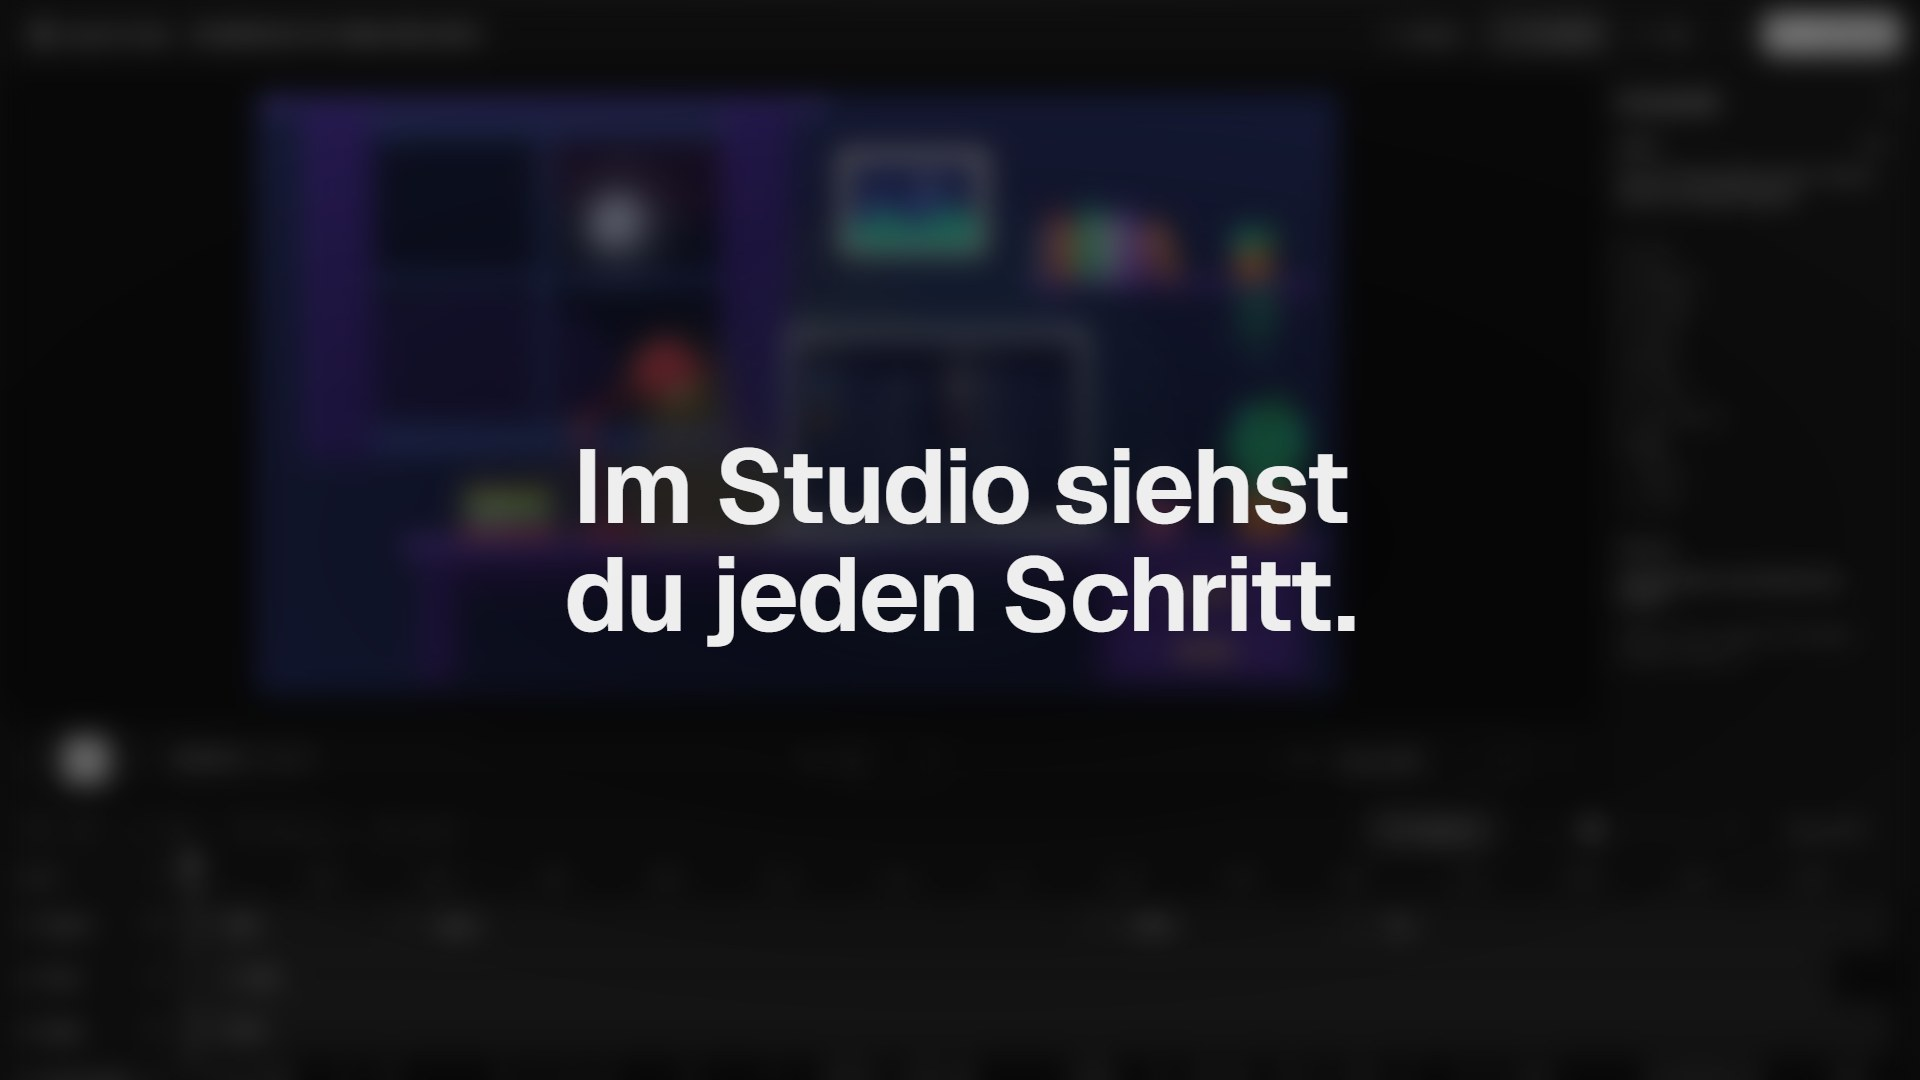
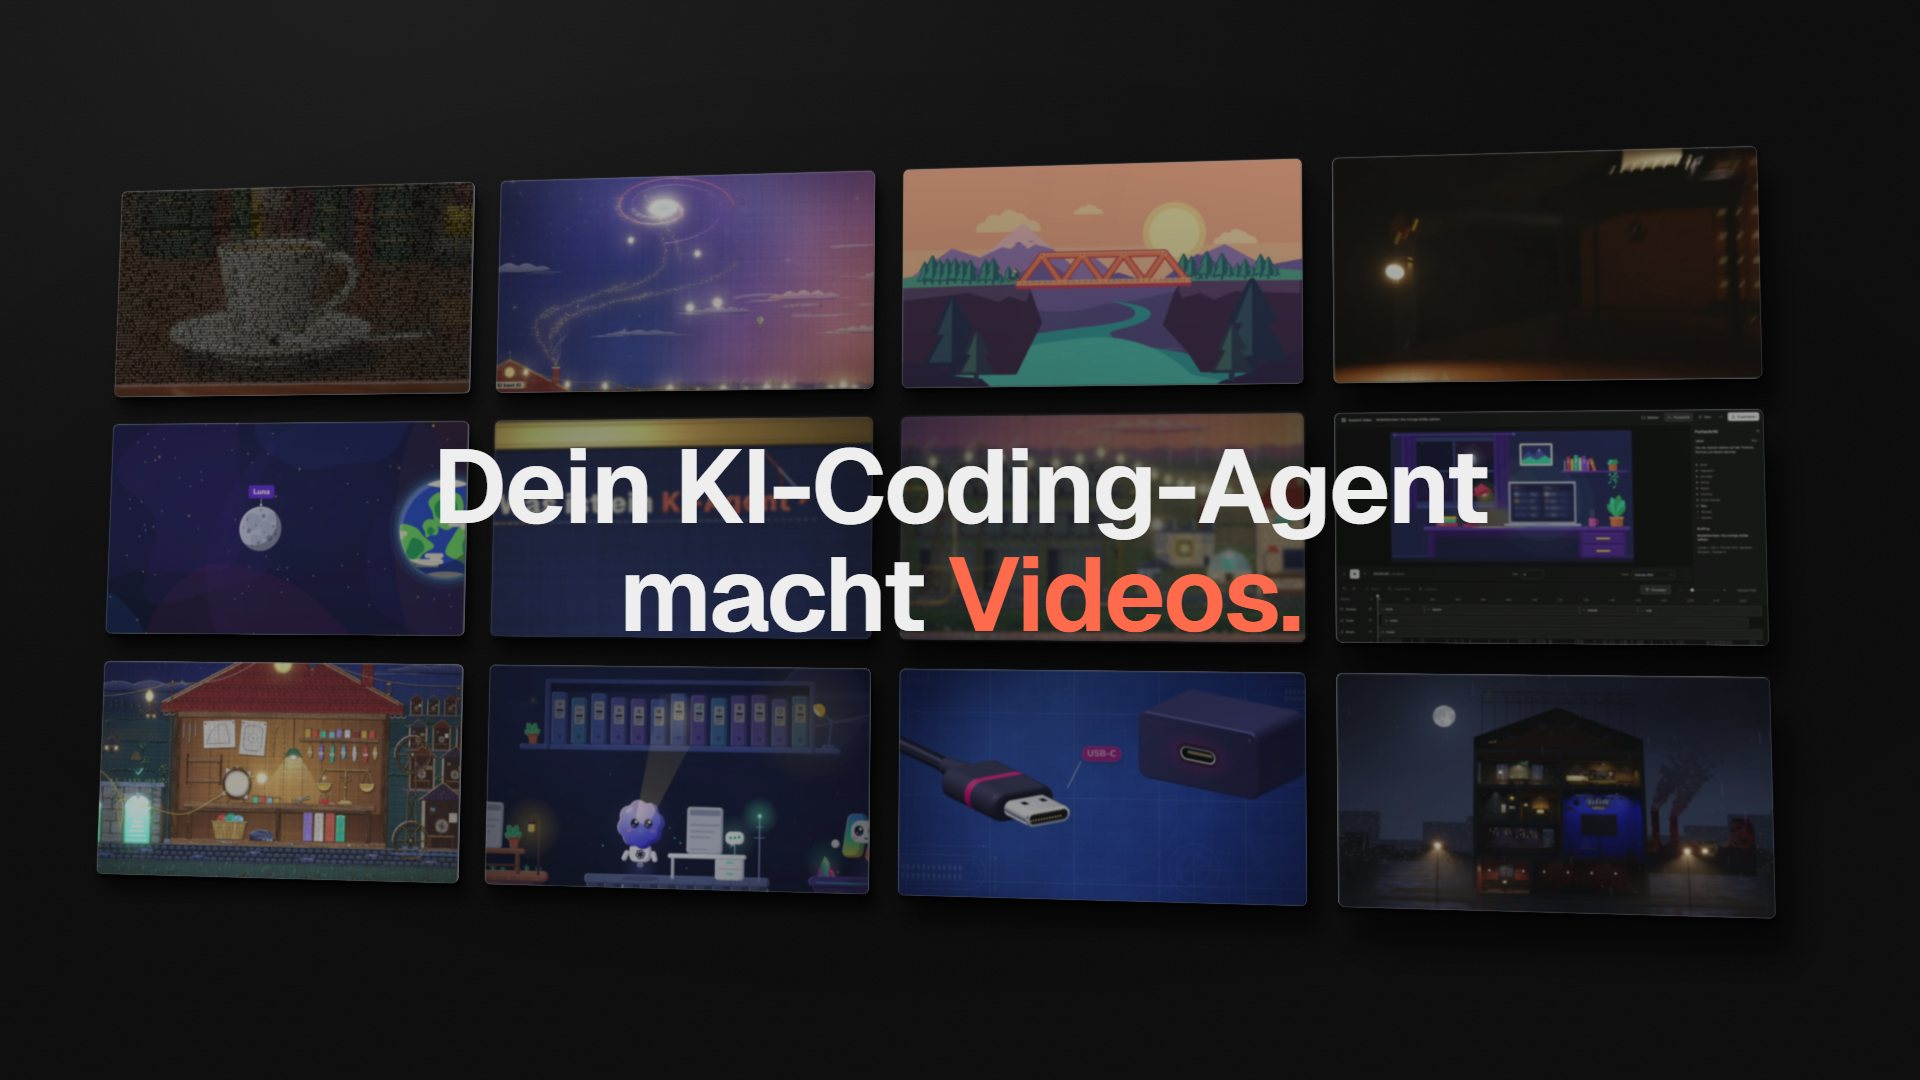
README shows the new launch film; scene guide on 3D cards that turn half grey
The README opens with the launch film made for 0.13.0, its first frame as the
picture, linked to the H.264 copy attached to the release; Studio moves down to
"So funktioniert es". The scene API reference explains why a 3D card can come
out half grey for one frame (an edge slice sorted in front of a blurred face
when its colour changes every frame) and how a scene avoids it.

diff --git a/README.md b/README.md
@@ -22,9 +22,9 @@
 </p>
 
 <p align="center">
-  <img src="docs/images/studio.jpg" alt="Das Studio von Superint Video: links die Vorschau eines fertigen Erklärfilms, rechts der Fortschritt des Coding-Agenten, unten die Timeline mit Szenen, Stimme, Musik und Soundeffekten" width="100%">
+  <a href="https://github.com/marlonka/superint-video/releases/download/v0.13.0/superint-video-launch.mp4"><img src="docs/images/launch-film.jpg" alt="Das erste Bild des Launch-Films: eine Wand aus zwölf Filmen, die mit Superint Video gemacht sind, darüber der Satz „Dein KI-Coding-Agent macht Videos.“" width="100%"></a>
   <br>
-  <sub>Das Studio mit einem fertigen Film. Du siehst, was dein Coding-Agent gerade tut, und änderst selbst, was du willst.</sub>
+  <sub>▶ <a href="https://github.com/marlonka/superint-video/releases/download/v0.13.0/superint-video-launch.mp4">Den Launch-Film ansehen</a> (33 s, mit Ton). Superint Video hat ihn über sich selbst gemacht.</sub>
 </p>
 
 ## So funktioniert es
@@ -36,6 +36,12 @@ Superint Video ist kein Schnittprogramm, in dem du selbst Szenen baust. Es ist d
 3. **Dein Agent baut den Film** mit den Werkzeugen von Superint Video: Er recherchiert, schreibt, zeichnet, vertont, prüft und rendert.
 
 Lass Superint Video offen, während er arbeitet. Dann wechselt es zum neuen Film, und du siehst jeden Schritt. Ist die App zu, öffnet dein Agent das Studio selbst. Zuschauen musst du aber nicht: Er arbeitet auch im Hintergrund weiter, bis das MP4 fertig ist.
+
+<p align="center">
+  <img src="docs/images/studio.jpg" alt="Das Studio von Superint Video: links die Vorschau eines fertigen Erklärfilms, rechts der Fortschritt des Coding-Agenten, unten die Timeline mit Szenen, Stimme, Musik und Soundeffekten" width="100%">
+  <br>
+  <sub>Das Studio mit einem fertigen Film. Du siehst, was dein Coding-Agent gerade tut, und änderst selbst, was du willst.</sub>
+</p>
 
 ## Was du brauchst
 
@@ -79,7 +85,7 @@ Dein Agent fragt nach, wenn ihm etwas fehlt, und legt dann los: Recherche, Skrip
   <img src="docs/images/app-start.jpg" alt="Die Startseite: ein Feld für das Thema des Films, darunter Stil, Länge, Format und Sprache, der fertige Prompt mit dem Knopf „Prompt kopieren“ und vier Filme mit Vorschaubild und Stand" width="100%">
 </p>
 
-Mehr Ideen findest du in den [Starter-Prompts](prompts/README.md). Wie ein Ergebnis aussieht, zeigt der [Launch-Film](https://github.com/marlonka/superint-video/releases/download/v0.3.0/superint-video-launch.mp4) (32 s, mit Ton), den Superint Video über sich selbst gemacht hat.
+Mehr Ideen findest du in den [Starter-Prompts](prompts/README.md). Wie ein Ergebnis aussieht, zeigt der [Launch-Film](https://github.com/marlonka/superint-video/releases/download/v0.13.0/superint-video-launch.mp4) oben auf dieser Seite.
 
 ## Häufige Fragen
 

diff --git a/README.en.md b/README.en.md
@@ -22,9 +22,9 @@
 </p>
 
 <p align="center">
-  <img src="docs/images/studio.jpg" alt="Superint Video's Studio: the preview of a finished explainer on the left, the coding agent's progress on the right, the timeline with scenes, voice, music and sound effects below" width="100%">
+  <a href="https://github.com/marlonka/superint-video/releases/download/v0.13.0/superint-video-launch.mp4"><img src="docs/images/launch-film.jpg" alt="The first frame of the launch film: a wall of twelve films made with Superint Video, under the line “Dein KI-Coding-Agent macht Videos.” (Your AI coding agent makes videos.)" width="100%"></a>
   <br>
-  <sub>Studio with a finished film. You see what your coding agent is doing and change whatever you like yourself.</sub>
+  <sub>▶ <a href="https://github.com/marlonka/superint-video/releases/download/v0.13.0/superint-video-launch.mp4">Watch the launch film</a> (33 s, German, with sound). Superint Video made it about itself.</sub>
 </p>
 
 ## How it works
@@ -36,6 +36,12 @@ Superint Video is not an editor where you build scenes yourself. It is the works
 3. **Your agent builds the film** with Superint Video's tools: it researches, writes, draws, voices, checks and renders.
 
 Keep Superint Video open while it works. It then switches to the new film, and you see every step. If the app is closed, your agent opens Studio itself. You do not have to watch, though: it keeps working in the background until the MP4 is done.
+
+<p align="center">
+  <img src="docs/images/studio.jpg" alt="Superint Video's Studio: the preview of a finished explainer on the left, the coding agent's progress on the right, the timeline with scenes, voice, music and sound effects below" width="100%">
+  <br>
+  <sub>Studio with a finished film. You see what your coding agent is doing and change whatever you like yourself.</sub>
+</p>
 
 ## What you need
 
@@ -79,7 +85,7 @@ Your agent asks if something is missing, then gets going: research, script, pict
   <img src="docs/images/app-start.jpg" alt="The start page: a field for the film's topic, style, length, format and language below it, the finished prompt with the Copy prompt button, and four films with a picture and their status" width="100%">
 </p>
 
-For more ideas, see the [starter prompts](prompts/README.md). To see a result, watch the [launch film](https://github.com/marlonka/superint-video/releases/download/v0.3.0/superint-video-launch.mp4) (32 s, German, with sound) that Superint Video made about itself.
+For more ideas, see the [starter prompts](prompts/README.md). To see a result, watch the [launch film](https://github.com/marlonka/superint-video/releases/download/v0.13.0/superint-video-launch.mp4) at the top of this page.
 
 ## Questions
 

diff --git a/skills/superint-video/references/scene-api.md b/skills/superint-video/references/scene-api.md
@@ -109,7 +109,7 @@ Report a highlight from the moment it arrives until it leaves, not during its fl
 
 **HTML in a canvas.** `htmlCanvas(canvas)` from `/runtime/html-in-canvas.js` lets a canvas draw its `drawable` children: real HTML as a picture in a 2D canvas or as a WebGL texture under a shader (a page in space with depth of field, a lens, a shader transition between two real screens). Change the HTML, then `await stage.paint(draw)` in `render`. It needs Chrome 157 or newer. The pattern, the API, what a picture of an element holds and tested recipes: [html-in-canvas.md](html-in-canvas.md).
 
-**3D in CSS.** A card or a page that turns in depth (`transform-style: preserve-3d`, faces with `backface-visibility: hidden`, slices for its thickness) stays 3D only while nothing between the container and its faces groups it: `opacity` under 1, `filter`, `mask`, `clip-path` or an `overflow` other than `visible` flattens it into a picture, and the back face then shows mirrored through the front. Fade, blur and dim the faces (the leaves), never the container, and hide the slices while a face is see-through. Hide a group with `visibility: hidden` only where no child sets `visibility: visible`, because such a child stays on screen; show children with `visibility: ''`, so they follow their parent.
+**3D in CSS.** A card or a page that turns in depth (`transform-style: preserve-3d`, faces with `backface-visibility: hidden`, slices for its thickness) stays 3D only while nothing between the container and its faces groups it: `opacity` under 1, `filter`, `mask`, `clip-path` or an `overflow` other than `visible` flattens it into a picture, and the back face then shows mirrored through the front. Fade, blur and dim the faces (the leaves), never the container, and hide the slices while a face is see-through. Hide a group with `visibility: hidden` only where no child sets `visibility: visible`, because such a child stays on screen; show children with `visibility: ''`, so they follow their parent. Chrome sorts layers that lie almost in one plane by their depth, and in a single frame a slice 1 px behind a blurred face can come out in front of part of that face: the card shows half grey for one frame. It happened when the slices' colour changed in every frame. Set the slices' style only when it changes, keep cards that do not turn on one edge colour, and look through the render for a flat grey patch inside a card.
 
 Scenes run in opaque sandboxed iframes on the read-only preview server.
 They cannot access Studio's document or mutation token.

diff --git a/CHANGELOG.md b/CHANGELOG.md
@@ -2,7 +2,7 @@
 
 Was sich in jeder Version von Superint Video geändert hat, die neueste zuerst. Das Format folgt [Keep a Changelog](https://keepachangelog.com/de/1.1.0/), die Nummern folgen [Semantic Versioning](https://semver.org/lang/de/). Jede Version zum Herunterladen steht unter [Releases](https://github.com/marlonka/superint-video/releases).
 
-## [0.13.0] – 2026-11-16
+## [0.13.0] – 2026-11-17
 
 ### Neu
 
@@ -11,6 +11,7 @@ Was sich in jeder Version von Superint Video geändert hat, die neueste zuerst. 
 - Mit `"room"` in `mix.json` klingen alle Soundeffekte im selben Raum, mit einstellbarer Nachhallzeit, Lautstärke und Helligkeit, statt trocken neben der Musik zu stehen.
 - Jede Lautheitsmessung, im Mix wie im fertigen MP4, nennt jetzt den Abstand der Spitze zur Lautheit (`peakToLoudnessDb`). Filme großer Marken liegen bei 12 bis 16 dB.
 - Der Launch-Ablauf weiß jetzt, was einen Film billig klingen lässt: klimpernde Motive in der Musik und gestimmte Glöckchen als Geräusche. Er verlangt Musik mit Gewicht, Geräusche ohne Tonhöhe und ein erstes Bild, das zeigt, was das Produkt macht.
+- Die Szenen-Referenz erklärt, warum eine 3D-Karte für ein Bild halb grau werden kann, wenn Chrome eine ihrer Kantenebenen vor das Bild sortiert, und wie die Szene das verhindert.
 
 ### Geändert
 
